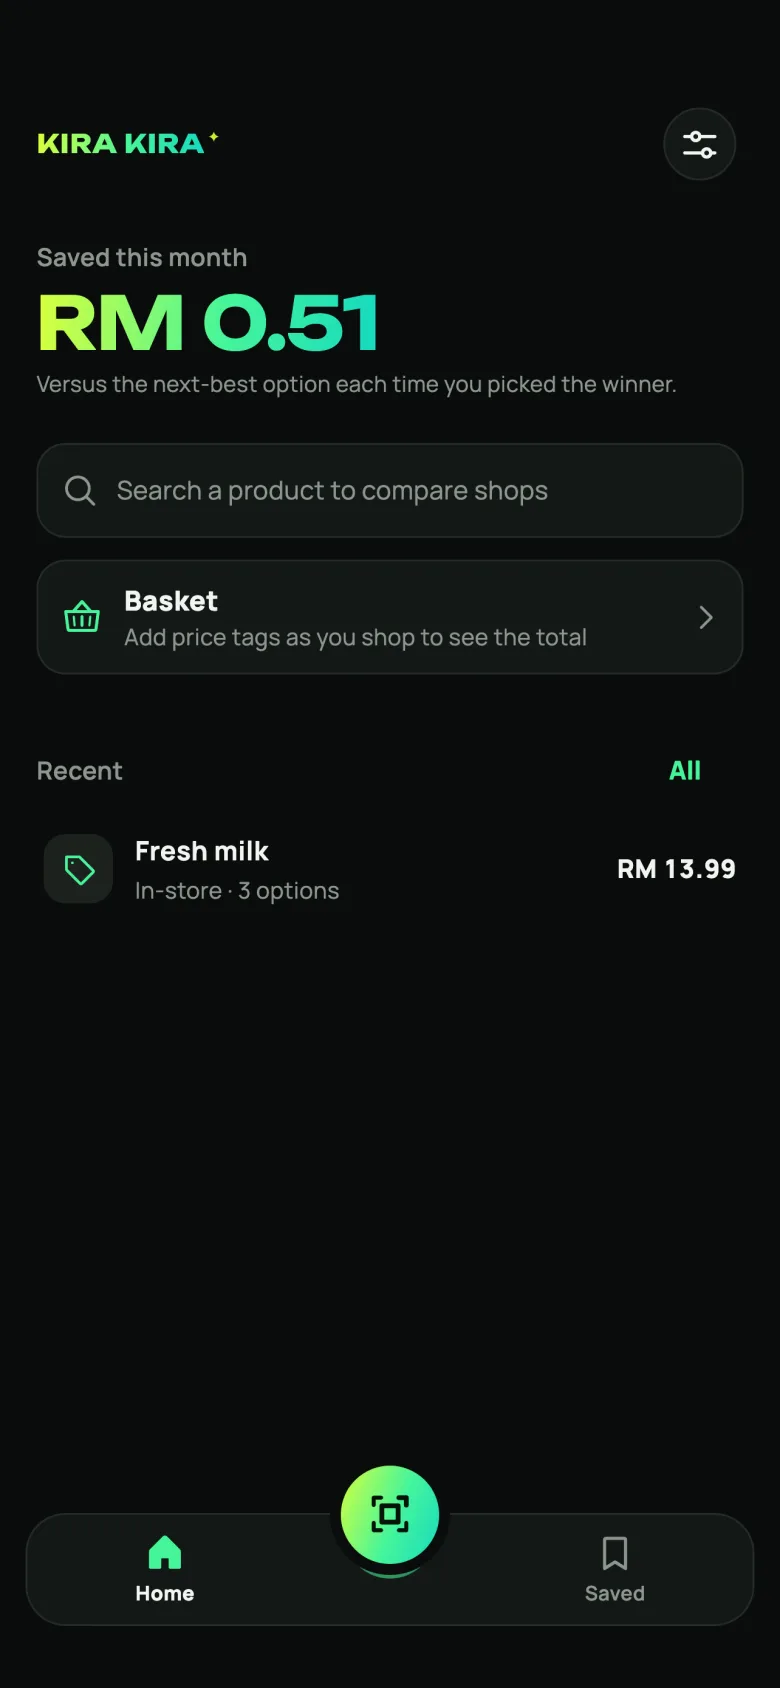
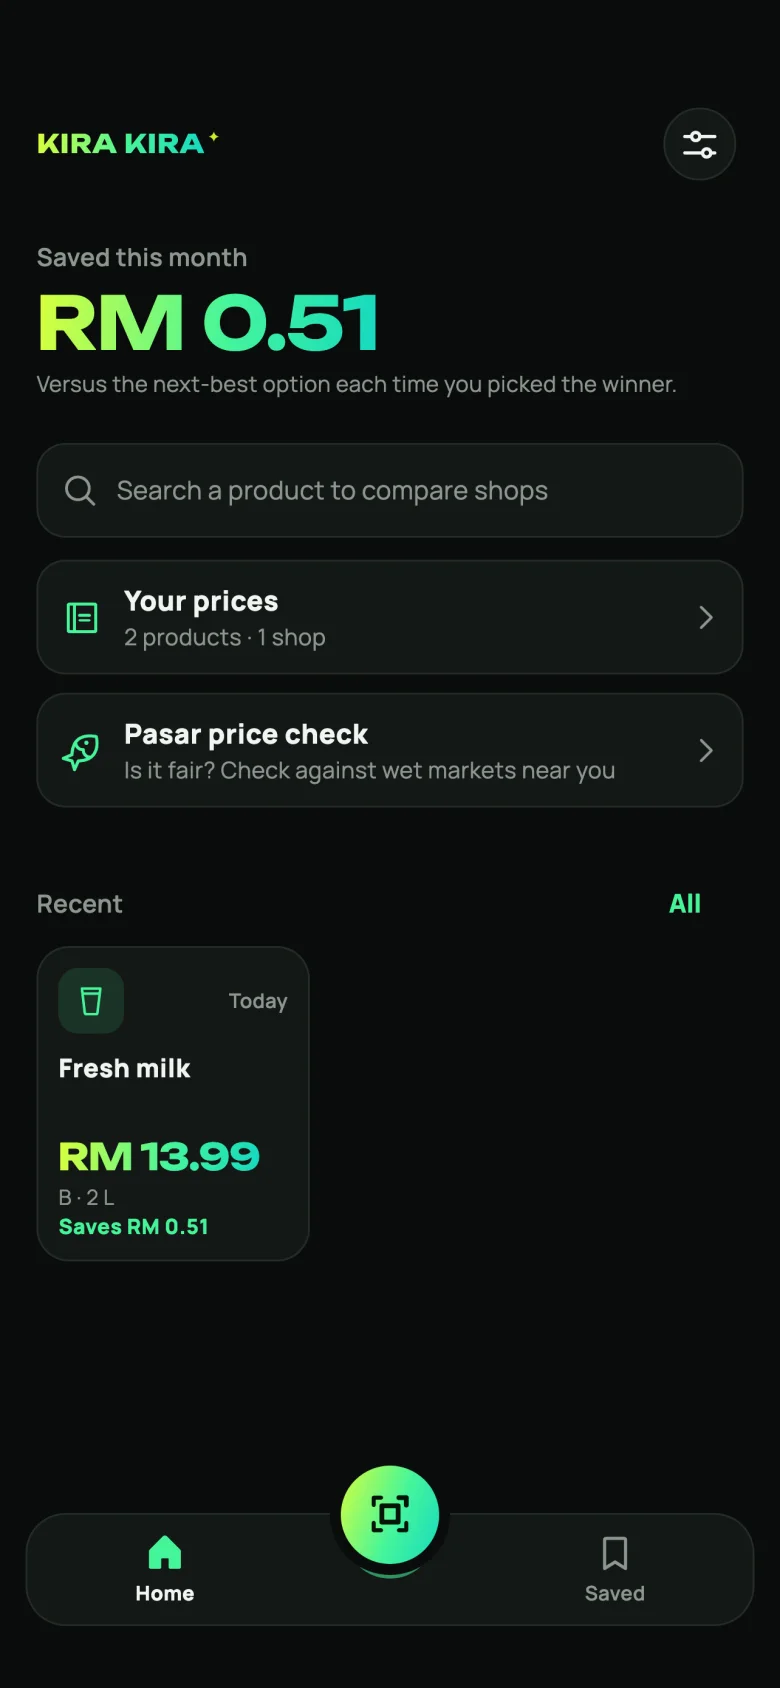
No basket: privacy wording, and Home and result screens redrawn

diff --git a/privacy.html b/privacy.html
@@ -22,7 +22,7 @@
     <ul>
       <li><strong>Price tags you scan.</strong> The camera picture is read on your phone by Google's ML Kit text recognition. It isn't saved or uploaded.</li>
       <li><strong>Your location</strong>, if you allow it. On the phone, the app uses it to find your district for shop prices, the wet markets near you for the pasar price check, and, when you scan, the shop you're in, so the price tags you scan are marked with it. The location itself is never sent anywhere; the app keeps only the district it found, and the shops you've been to.</li>
-      <li><strong>Your comparisons, prices, basket and settings</strong>, such as saved comparisons; your prices (each price you add to a comparison or the basket, with its shop and the day), so the app can tell you where you saw something for less; your shopping basket and budget; the shops you've been to (their names, and where your phone was when you picked them); language, theme and your district for shop prices. They are stored on your phone, and you can delete your prices in the app. Deleting the app deletes them all.</li>
+      <li><strong>Your comparisons, prices and settings</strong>, such as saved comparisons; your prices (each price you add to a comparison, with its shop and the day), so the app can tell you where you saw something for less; the shops you've been to (their names, and where your phone was when you picked them); language, theme and your district for shop prices. They are stored on your phone, and you can delete your prices in the app. Deleting the app deletes them all.</li>
     </ul>
     <h2>What leaves your phone</h2>
     <ul>
